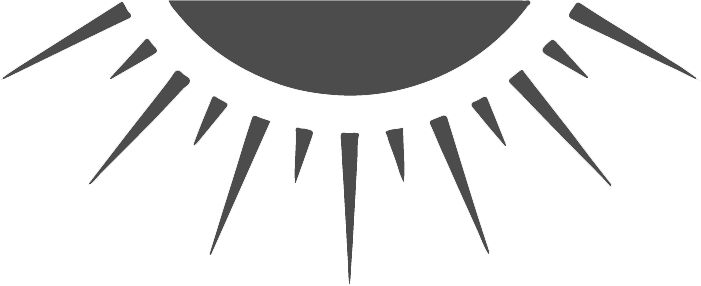
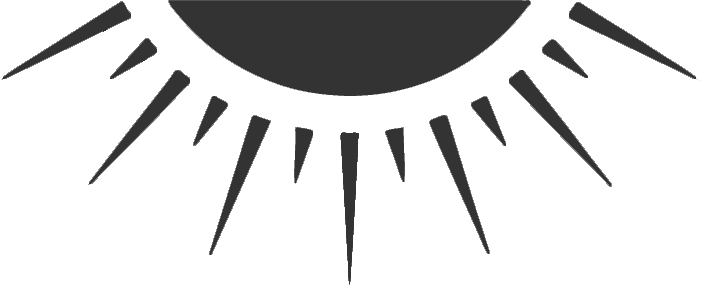
colour fix for png images and resiing of divs now have an issue on scroll where the hamburger moves down

diff --git a/css/style.css b/css/style.css
@@ -13,6 +13,7 @@ width: 100%;
 	font-family: 'Montserrat', sans-serif;
 	padding-top: 25px;
 	padding-right: 10px;
+	text-align: right
 	
 	
 }
@@ -22,33 +23,31 @@ p {
 
 /* Header menu section */
 .upperLogo {
-	width: 250px;
+	width: 230px;
 	margin-top: 1px;
-	margin-left: 70px;
-	margin-bottom: 6px;;
+	margin-left: 80px;
+	margin-bottom: 4px;;
 }
 
 .mainNav {
-	height: 75px;
-	background-color: #4C4C4C;	
+	height: 67px;
+	background-color: #333333;	
 }
 
 
-
-
-
 .middleLogo {
-	width: 225px;
-	margin-left: 82px;
+	width: 188px;
+	margin-left: 102px;
 	display: block;
 	float: left;
+	margin-top: 3px;
 
 }
 
 .lowerLogo {
-	width: 250px;
-	margin-left: 70px;
-	margin-top: 9px;
+	width: 230px;
+	margin-left: 80px;
+	margin-top: 7px;
 }
 
 nav {
@@ -63,7 +62,7 @@ nav ul li {
 	display: block;
 	float: left;
 	padding: 3px 2px;
-	margin-top: 22px;
+	margin-top: 20px;
 	margin-left: 40px;
 
 }
@@ -90,8 +89,9 @@ header {
 .menuContactNumber {
 
 	text-align: right;
-	padding-top: 24px;
+	padding-top: 22px;
 	padding-right: 10px;
+	
 }
 
 .facebookIcon {
@@ -159,6 +159,7 @@ header {
 
 	#menuContactDesktop {
 		display: none;
+		cursor: pointer;
 	}
 
 /*	.upperLogo {
@@ -193,6 +194,7 @@ header {
 	}
 	.toggleMobile span.menu1, .toggleMobile span.menu2, .toggleMobile span.menu3 {
 	
+		top: 117px;
 		display: block;
 		position: absolute;
 		width: 45px;
@@ -201,7 +203,7 @@ header {
 		background: #EDA28C;
 		-webkit-transition: all 0.35s cubic-bezier(0.75, 0.25, 0.10, 0.95);
 		transition: all 0.35s cubic-bezier(0.75, 0.25, 0.10, 0.95);
-		margin-right: 10px;
+		margin-right: 18px;
 		border-radius: 1.6em
 	}
 	.toggleMobile span.menu1 {

diff --git a/index.html b/index.html
@@ -102,7 +102,7 @@
 		</div>
 			</a>
 	
-		<p id="showScroll">Lorem ipsum</p>
+		
 		<p>Lorem ipsum</p>
 		<p>Lorem ipsum</p>
 		<p>Lorem ipsum</p>
@@ -159,6 +159,7 @@
 					document.getElementById("upperLogoSun").style.display = "none";
 					document.getElementById("followUsText").style.display = "none";
 					document.getElementById("followUsBox").style.width = "50px";
+				
 
 					
 				}else{
